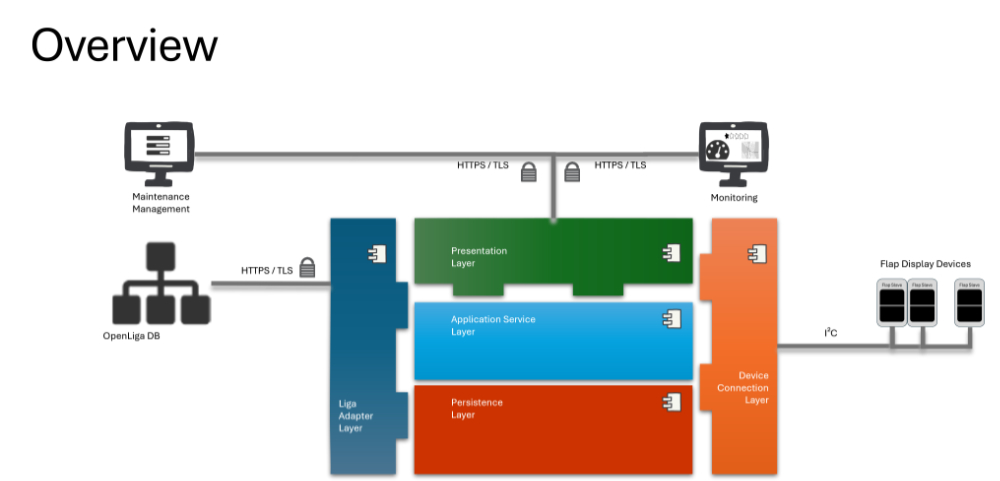
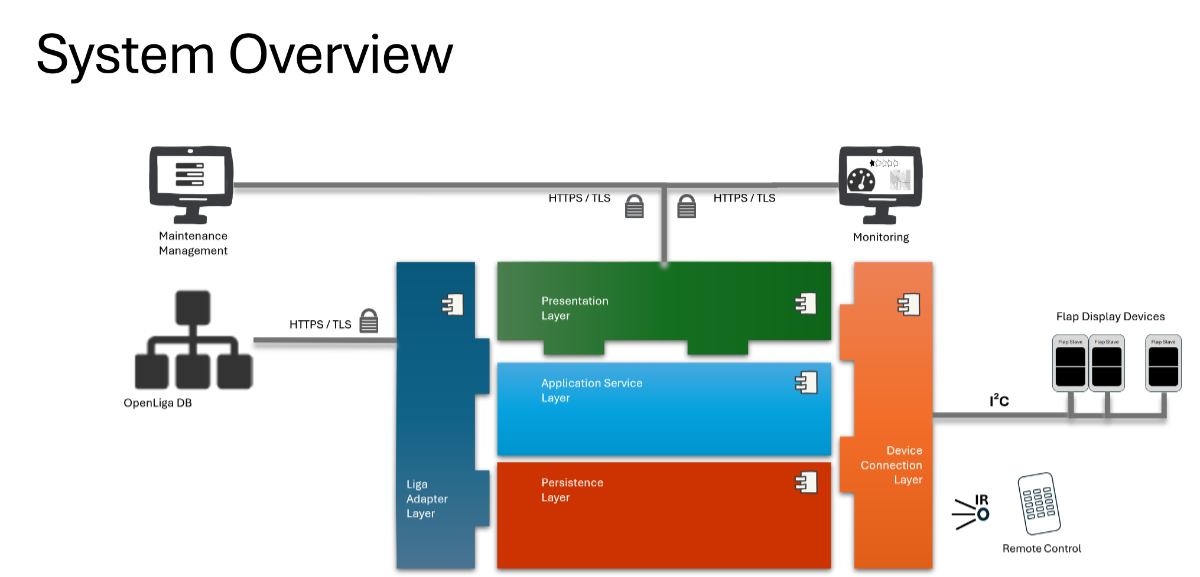
enhanced overview

diff --git a/docs/index.md b/docs/index.md
@@ -1,6 +1,6 @@
 # The ultimativ Flap Display I²C Master
 
-![](images//Overview.png)
+![](images//Overview.jpg)
 
 ## Overview
 The picture shows a layered architecture for a split-flap display system. End-user and admin UIs talk securely to a central service stack, which in turn persists data, integrates external systems, and drives the physical flap devices via a device/bus layer.
@@ -11,20 +11,27 @@ Operator UI and Admin/Monitoring UI connect to the backend using HTTPS/TLS.
 
 The T-junction suggests a gateway or shared API endpoint that fans into the backend.
 
-## Core service stack (middle, green/blue/red)
+## Core service stack
 
-* Presentation Layer: 
+### Presentation Layer: 
 Web/API endpoints, request handling, view models.
 
-* Application Service Layer: 
+### Application Service Layer: 
 Orchestrates use-cases and business logic; coordinates between presentation, persistence, adapters, and devices.
 
-* Persistence Layer: Data storage access (DB/EEPROM/files), repositories, transactions.
+### Persistence Layer: 
+Data storage access (EEPROM) for secure parameter management.
 
-* Liga Adapter Layer: 
-An adapter layer for an external system. Communication is secured, and adapters translate external models into the internal domain model.
+## Liga Adapter Layer: 
+An adapter layer to connect external systems. Communication is secured, and adapters translate external models into the internal domain model of zhe flap display system.
 
-* Device Connection Layer: 
+## Device Connection Layer: 
 Hardware/I²C-bus abstraction that the application uses to control physical modules.
 
+## Peripherie
+
 On the far right, multiple “Flap Slave” devices are chained on a local bus (e.g., I²C). This layer hides bus details and exposes device-level operations.
+
+Under this there is shown an IR Remote Control. With the help of it some maintenance features like calibration or speed measurement  can be controled.
+
+On the left, as example for external systems there is shown the the free OpenLiga DB. This is connected over an adapter to enable the flap display system to show live liga tables.
